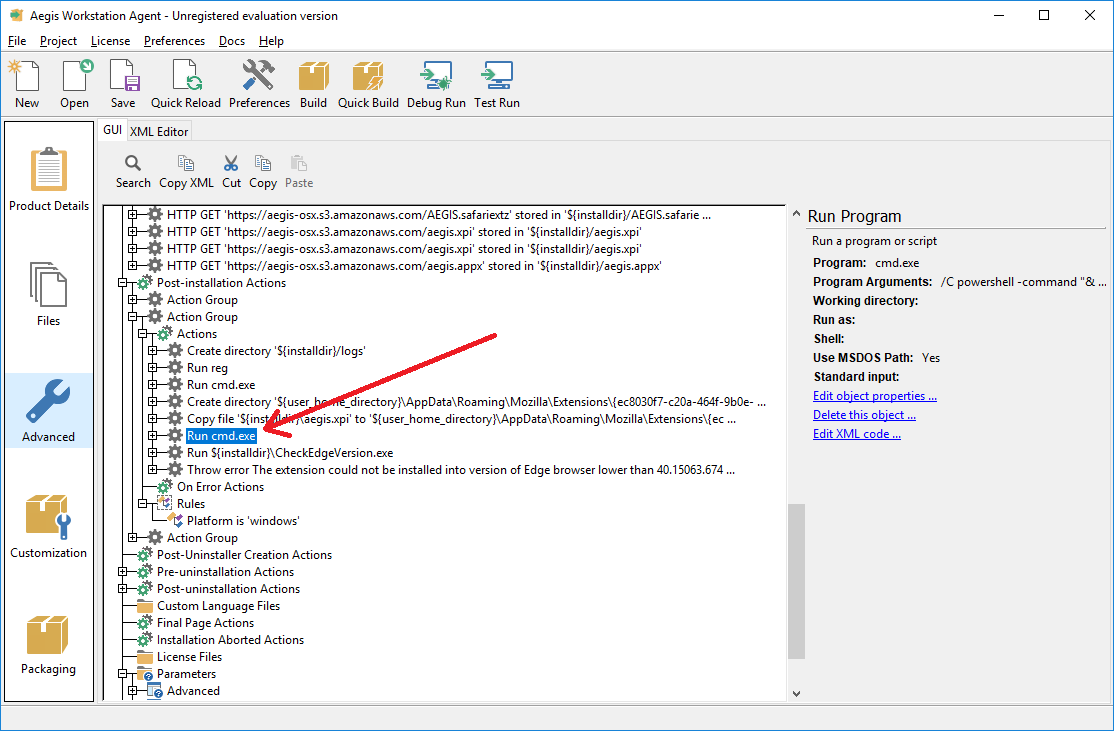
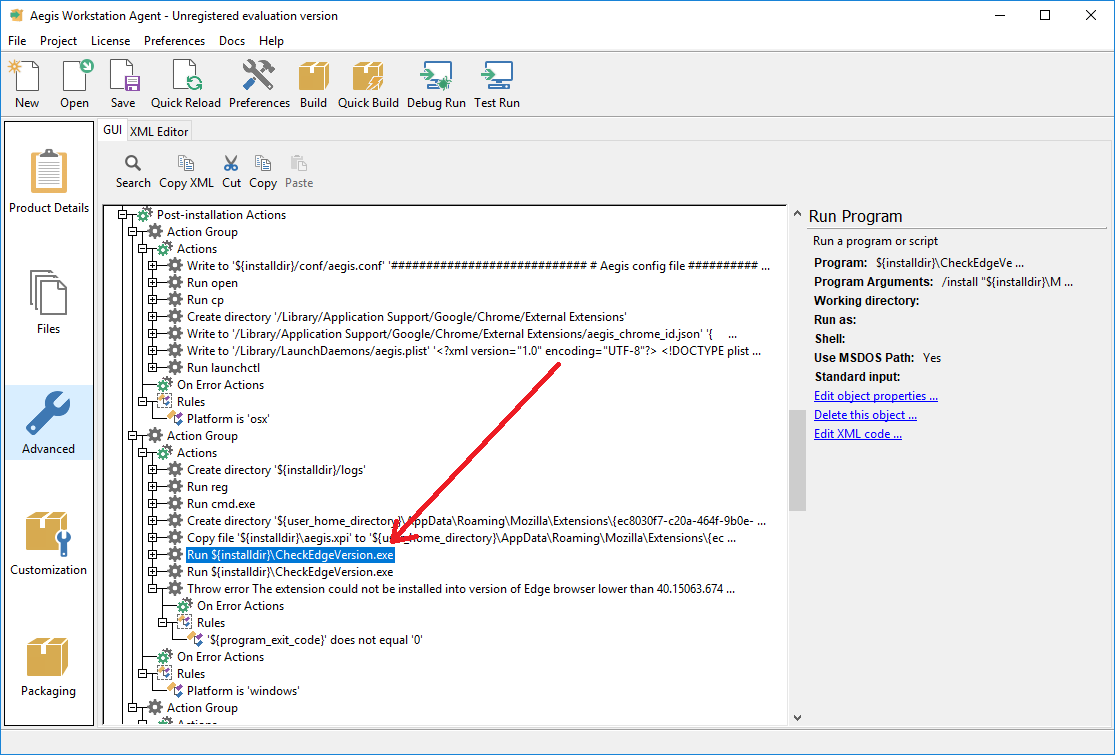
Changes to the documentation have been made

diff --git a/InstallBuilder/README.md b/InstallBuilder/README.md
@@ -153,45 +153,18 @@ Now, you have everything for the installation of Firefox “extension”.
 
 Edge
 
-In order to download the plugin, you will need to download the program named Fiddler.
-To start, download Fiddler (https://www.telerik.com/fiddler) from its official site and install it like any other Windows Software.
-By default, Windows won’t allow apps to send network traffic to the local computer, so we first need to remove this restriction. To do that, open Fiddler by searching for it in the Start menu.
-Once opened, click on the “WinConfig” button appearing on the top of the navigation bar.
+In order to install an Edge extension, it must first be signed with a certificate. Then, the certificate is installed on a user computer.
+To generate certificate that will be used to sing <your extension>.appx, you need to install relevant utilities. They are included into Windows SDK, which can be downloaded from here https://developer.microsoft.com/en-us/windows/downloads/windows-10-sdk
 
-![alt text](files-github/screenshot5.jpg)
+After installation, execute the following commands in PowerShell:
+"C:\Program Files (x86)\Windows Kits\8.1\bin\x64\MakeCert" /n "CN=1DB4D603-BFD1-4FAB-8D9F-F048340841C0" /r /h 0 /eku "1.3.6.1.5.5.7.3.3,1.3.6.1.4.1.311.10.3.13" /e "12/31/2018" /sv MyKey.pvk MyKey.cer
+"C:\Program Files (x86)\Windows Kits\8.1\bin\x64\Pvk2Pfx" /pvk MyKey.pvk /pi "123qwe" /spc MyKey.cer /pfx MyKey.pfx /po "123qwe"
+"C:\Program Files (x86)\Windows Kits\8.1\bin\x64\signtool.exe" sign /fd sha256  /f MyKey.pfx /p 123qwe AEGISAgent.appx
 
-The above action will open the “AppContainer Loopback Exemption Utility” window. Here, click on the button “Exempt All,” and then click on the “Save Changes” button. Once you are done, close this window.
+After executing these commands, you will have "MyKey.cer" certificate and signed Edge extension "AEGISAgent.appx"
+Place you “MyKey.cer” certificate into your installer’s directory, at path .\installer-osx\InstallBuilder\Content\win. Now you have everything to install the Edge extension.
 
-![alt text](files-github/screenshot6.jpg)
 
-On the main window, click on the “Remove” icon and select the option “Remove all” from the drop-down menu. This action will clear the capture screen.
-
-![alt text](files-github/screenshot7.jpg)
-
-Now open the Windows Store, find the app you want to download and click on the “Get” button. In my case, I’m trying to download the adblock app. This is a win32 application converted to a UWP app.
-
-![alt text](files-github/screenshot8.png)
-
-Once Windows acquires the license and starts the download process, this is how it looks in the Windows Store. Once you see this, proceed to the next step.
-
-![alt text](files-github/screenshot9.png)
-
-Since Fiddler is running in the background, all the traffic is being monitored by it. From the monitoring results we can find and copy the URL to download the appx package. To do that, click on the “Find” button appearing in the top navigation bar.
-
-![alt text](files-github/screenshot10.jpg)
-
-In the Find window type “appx” in the empty field, and press the Enter button.
-
-![alt text](files-github/screenshot11.jpg)
-
-The above action will highlight all the URLs that are responsible for downloading the appx package. From the highlighted URLs, find and right-click on the first URL and select the option “Copy > Just URL.” While doing this, make sure that highlighted URL has the status code 200.
-
-![alt text](files-github/screenshot12.jpg)
-
-Once the URL has been copied, simply paste it into your favorite browser’s address bar, and press the Enter button. The appx package should be downloaded automatically. Depending on the download size, it may take some time, but you should have the file in your Downloads folder as soon as the download is complete.
-
-After you have finished downloading the plugin (in our case, EyeoGmbH.AdblockPlus_0.9.9.0_neutral__d55gg7py3s0m0.Appx), the file "<your extension>.appx" must be place on your server at https://aegis-osx.s3.amazonaws.com/<your extension>.appx (In the adblock example, it will be https://aegis-osx.s3.amazonaws.com/ EyeoGmbH.AdblockPlus_0.9.9.0_neutral__d55gg7py3s0m0.Appx) 
-Now you have everything to install the Edge “extension”.
 
 4) Specify the links from which the extensions will be downloaded in InstallBuilder.
 
@@ -349,15 +322,12 @@ The following dialog window will open:
 
 “Program Arguments” field, outlined with the red rectangle, needs to be edited. The following string in it needs to be changed:
 :
-/C powershell -command "& {&'Add-AppxPackage' '${installdir}\aegis.appx'}"
+/install "${installdir}\MyKey.cer" "${installdir}\AEGISAgentSigned.appx"
 
-
-Change aegis.appx substring to the name of Edge extension download previously.
-
-The example of such string for adblock
-/C powershell -command "& {&'Add-AppxPackage' '${installdir}\EyeoGmbH.AdblockPlus_0.9.9.0_neutral__d55gg7py3s0m0.Appx'}"
+Change AEGISAgentSigned.appx substring to the name of Edge extension download previously.
 
 Click “OK” once done.
+
 
 
 6) To build the installer, click on the “Build” button as shown on the screenshot
